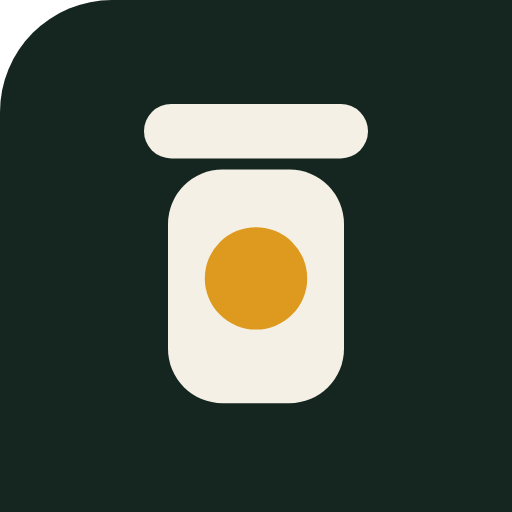
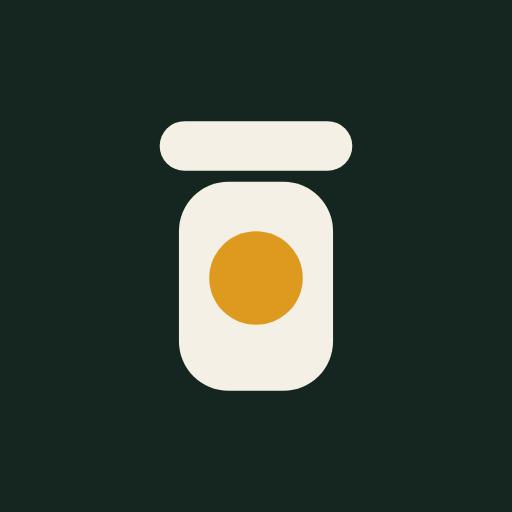
docs: trust-boundary diagram and a submission-ready README
- docs/architecture-trust.html/.png: where the money goes, drawn in the
  product's own tokens (money path outside the box, Kitty inside it)
- README: screenshot row, demo-video and submission pointers, the diagram
  as the head of the architecture section
- README: the mainnet chip-in is no longer 'pending' (5 NIM at block
  65,891,682, tag kitty:aakgnbsc); the trust line states the real 0-vs-5 NIM
  disagreement instead of an old test number
- submission/: full-bleed 512 icon, 240 thumbnail, five phone screenshots
  plus a contact sheet

Changed region(s): [[0.2812, 0.1875, 0.7188, 0.8125], [0.0, 0.0, 0.1875, 0.1875], [0.4375, 0.4375, 0.5625, 0.4688]]

diff --git a/docs/architecture-trust.html b/docs/architecture-trust.html
@@ -1,0 +1,133 @@
+<!doctype html>
+<html lang="en"><head><meta charset="utf-8">
+<title>Kitty · where the money goes</title>
+<style>
+  :root{
+    --paper:#f4eee3; --paper-2:#fbf8f1; --ink:#1b1a17; --muted:#5f594d;
+    --soft:#8b8477; --rule:rgba(27,26,23,.22); --accent:#c9761c; --accent-2:#dd9a1e;
+    --deep:#14261f; --link:#3f6b57;
+    --sans:-apple-system,BlinkMacSystemFont,"Segoe UI",system-ui,sans-serif;
+    --mono:ui-monospace,SFMono-Regular,Menlo,Consolas,monospace;
+  }
+  html,body{margin:0;background:var(--paper);color:var(--ink);font-family:var(--sans)}
+  .page{max-width:1200px;margin:0 auto;padding:44px 0 56px}
+  .eyebrow,h1,.lede,.note{padding-left:24px;padding-right:24px}
+  .eyebrow{font-family:var(--mono);font-size:11px;letter-spacing:.16em;text-transform:uppercase;color:var(--accent);margin:0 0 10px}
+  h1{font-size:30px;line-height:1.15;letter-spacing:-.02em;font-weight:600;margin:0 0 8px}
+  .lede{font-size:14px;line-height:1.55;color:var(--muted);margin:0 0 26px;max-width:760px}
+  .scroll{overflow-x:auto}
+  svg{display:block;min-width:1200px}
+  .note{font-family:var(--mono);font-size:11px;letter-spacing:.04em;color:var(--soft);margin-top:16px}
+</style></head><body>
+<div class="page">
+  <p class="eyebrow">Kitty · trust boundary</p>
+  <h1>The money never enters the box</h1>
+  <p class="lede">A contribution is a NIM payment from the giver's wallet to the owner's wallet, signed in
+    Nimiq Pay. Kitty only reads that payment back from the chain and prints what it finds, which is why a
+    receipt cannot be invented and Kitty cannot spend a coin.</p>
+
+  <div class="scroll">
+  <svg viewBox="0 0 1200 620" width="1200" height="620" role="img"
+       aria-labelledby="trust-title trust-desc" xmlns="http://www.w3.org/2000/svg">
+    <title id="trust-title">Kitty trust boundary: money moves between wallets, Kitty only reads the chain</title>
+    <desc id="trust-desc">A giver's wallet sends NIM with the jar tag to the owner's own wallet through the Nimiq
+      chain. Inside a separate box, the Kitty web app posts the transaction hash to Kitty's verifier, which reads
+      that transaction from the chain and prints the row on the public proof page.</desc>
+
+    <defs>
+      <marker id="trust-arrow" viewBox="0 0 10 10" refX="9" refY="5" markerWidth="7" markerHeight="7"
+              orient="auto-start-reverse"><path d="M0 0 L10 5 L0 10 z" fill="#5f594d"/></marker>
+      <marker id="trust-arrow-accent" viewBox="0 0 10 10" refX="9" refY="5" markerWidth="7" markerHeight="7"
+              orient="auto-start-reverse"><path d="M0 0 L10 5 L0 10 z" fill="#c9761c"/></marker>
+      <marker id="trust-arrow-link" viewBox="0 0 10 10" refX="9" refY="5" markerWidth="7" markerHeight="7"
+              orient="auto-start-reverse"><path d="M0 0 L10 5 L0 10 z" fill="#3f6b57"/></marker>
+    </defs>
+
+    <!-- trust boundary: Kitty's side of the line -->
+    <rect x="20" y="336" width="1160" height="196" rx="10" fill="#fbf8f1"
+          stroke="#8b8477" stroke-width="1.5" stroke-dasharray="7,5"/>
+    <text x="44" y="366" font-family="ui-monospace,Menlo,monospace" font-size="11" letter-spacing="1.7"
+          fill="#c9761c">KITTY · NO KEYS, NO CUSTODY</text>
+
+    <!-- arrows first, so strokes sit behind the boxes -->
+    <path d="M296 170 H466" stroke="#c9761c" stroke-width="2" fill="none" marker-end="url(#trust-arrow-accent)"/>
+    <path d="M732 170 H902" stroke="#c9761c" stroke-width="2" fill="none" marker-end="url(#trust-arrow-accent)"/>
+    <path d="M296 450 H466" stroke="#5f594d" stroke-width="1.5" fill="none" marker-end="url(#trust-arrow)"/>
+    <path d="M732 450 H902" stroke="#5f594d" stroke-width="1.5" fill="none" marker-end="url(#trust-arrow)"/>
+    <path d="M600 228 V396" stroke="#3f6b57" stroke-width="1.5" fill="none" stroke-dasharray="5,4"
+          marker-end="url(#trust-arrow-link)"/>
+
+    <!-- arrow labels, each on its own opaque mask -->
+    <rect x="330" y="140" width="104" height="20" rx="3" fill="#f4eee3"/>
+    <text x="382" y="154" text-anchor="middle" font-family="ui-monospace,Menlo,monospace" font-size="10.5"
+          letter-spacing="1.2" fill="#c9761c">SENDS 5 NIM</text>
+    <rect x="764" y="140" width="108" height="20" rx="3" fill="#f4eee3"/>
+    <text x="818" y="154" text-anchor="middle" font-family="ui-monospace,Menlo,monospace" font-size="10.5"
+          letter-spacing="1.2" fill="#c9761c">LANDS THERE</text>
+    <rect x="330" y="420" width="104" height="20" rx="3" fill="#fbf8f1"/>
+    <text x="382" y="434" text-anchor="middle" font-family="ui-monospace,Menlo,monospace" font-size="10.5"
+          letter-spacing="1.2" fill="#5f594d">POSTS HASH</text>
+    <rect x="762" y="420" width="112" height="20" rx="3" fill="#fbf8f1"/>
+    <text x="818" y="434" text-anchor="middle" font-family="ui-monospace,Menlo,monospace" font-size="10.5"
+          letter-spacing="1.2" fill="#5f594d">PRINTS ROW</text>
+    <rect x="612" y="296" width="92" height="20" rx="3" fill="#f4eee3"/>
+    <text x="658" y="310" text-anchor="middle" font-family="ui-monospace,Menlo,monospace" font-size="10.5"
+          letter-spacing="1.2" fill="#3f6b57">READS TX</text>
+
+    <!-- node: giver -->
+    <rect x="40" y="122" width="256" height="96" rx="6" fill="#fbf8f1" stroke="#1b1a17" stroke-width="1.5"/>
+    <text x="62" y="156" font-size="15" font-weight="600" fill="#1b1a17">Giver's phone</text>
+    <text x="62" y="178" font-family="ui-monospace,Menlo,monospace" font-size="10.5" letter-spacing="1.1"
+          fill="#5f594d">NIMIQ PAY · SIGNS</text>
+    <text x="62" y="198" font-family="ui-monospace,Menlo,monospace" font-size="10.5" fill="#8b8477">tag kitty:aakgnbsc</text>
+
+    <!-- node: chain -->
+    <rect x="476" y="122" width="256" height="96" rx="6" fill="#14261f" stroke="#14261f" stroke-width="1.5"/>
+    <text x="498" y="156" font-size="15" font-weight="600" fill="#f4f0e6">Nimiq mainnet</text>
+    <text x="498" y="178" font-family="ui-monospace,Menlo,monospace" font-size="10.5" letter-spacing="1.1"
+          fill="#c9c2b2">BLOCK 65,891,682</text>
+    <text x="498" y="198" font-family="ui-monospace,Menlo,monospace" font-size="10.5" fill="#8b8477">value read from the node</text>
+
+    <!-- node: owner wallet (focal) -->
+    <rect x="912" y="122" width="256" height="96" rx="6" fill="#fbf8f1" stroke="#c9761c" stroke-width="2"/>
+    <text x="934" y="156" font-size="15" font-weight="600" fill="#1b1a17">Owner's own wallet</text>
+    <text x="934" y="178" font-family="ui-monospace,Menlo,monospace" font-size="10.5" letter-spacing="1.1"
+          fill="#c9761c">THE MONEY IS HERE</text>
+    <text x="934" y="198" font-family="ui-monospace,Menlo,monospace" font-size="10.5" fill="#8b8477">not in Kitty</text>
+
+    <!-- node: web app -->
+    <rect x="40" y="402" width="256" height="96" rx="6" fill="#fbf8f1" stroke="#1b1a17" stroke-width="1.5"/>
+    <text x="62" y="436" font-size="15" font-weight="600" fill="#1b1a17">Kitty web app</text>
+    <text x="62" y="458" font-family="ui-monospace,Menlo,monospace" font-size="10.5" letter-spacing="1.1"
+          fill="#5f594d">THE JAR PAGE</text>
+    <text x="62" y="478" font-family="ui-monospace,Menlo,monospace" font-size="10.5" fill="#8b8477">no wallet, no key</text>
+
+    <!-- node: verifier -->
+    <rect x="476" y="402" width="256" height="96" rx="6" fill="#fbf8f1" stroke="#1b1a17" stroke-width="1.5"/>
+    <text x="498" y="436" font-size="15" font-weight="600" fill="#1b1a17">Kitty verifier</text>
+    <text x="498" y="458" font-family="ui-monospace,Menlo,monospace" font-size="10.5" letter-spacing="1.1"
+          fill="#5f594d">SIX CHECKS</text>
+    <text x="498" y="478" font-family="ui-monospace,Menlo,monospace" font-size="10.5" fill="#8b8477">refuses a wrong row</text>
+
+    <!-- node: proof page -->
+    <rect x="912" y="402" width="256" height="96" rx="6" fill="#fbf8f1" stroke="#1b1a17" stroke-width="1.5"/>
+    <text x="934" y="436" font-size="15" font-weight="600" fill="#1b1a17">Public proof page</text>
+    <text x="934" y="458" font-family="ui-monospace,Menlo,monospace" font-size="10.5" letter-spacing="1.1"
+          fill="#5f594d">EVERY RECEIPT</text>
+    <text x="934" y="478" font-family="ui-monospace,Menlo,monospace" font-size="10.5" fill="#8b8477">opens on Nimiq</text>
+
+    <!-- legend strip -->
+    <g font-family="ui-monospace,Menlo,monospace" font-size="10.5" letter-spacing="1.1" fill="#5f594d">
+      <line x1="40" y1="576" x2="76" y2="576" stroke="#c9761c" stroke-width="2" marker-end="url(#trust-arrow-accent)"/>
+      <text x="86" y="580">MONEY MOVES</text>
+      <line x1="222" y1="576" x2="258" y2="576" stroke="#5f594d" stroke-width="1.5" marker-end="url(#trust-arrow)"/>
+      <text x="268" y="580">KITTY WRITES</text>
+      <line x1="404" y1="576" x2="440" y2="576" stroke="#3f6b57" stroke-width="1.5" stroke-dasharray="5,4"
+            marker-end="url(#trust-arrow-link)"/>
+      <text x="450" y="580">READS THE CHAIN</text>
+    </g>
+  </svg>
+  </div>
+  <p class="note">5 NIM · tx 8afa45e0…901ab9 · block 65,891,682 · tag kitty:aakgnbsc</p>
+</div>
+</body></html>

diff --git a/submission/src/icon-512.html b/submission/src/icon-512.html
@@ -1,0 +1,15 @@
+<!doctype html><html><head><meta charset="utf-8"><style>
+  html,body{margin:0;padding:0;width:512px;height:512px;overflow:hidden;background:#14261f}
+  svg{display:block}
+</style></head><body>
+<!-- Kitty mark, drawn from web/app/icon.svg at 16x, full-bleed square:
+     platforms apply their own corner mask, so the file itself must not. -->
+<svg width="512" height="512" viewBox="0 0 32 32" xmlns="http://www.w3.org/2000/svg">
+  <rect width="32" height="32" fill="#14261f"/>
+  <g transform="translate(16 16) scale(0.86) translate(-16 -16)">
+    <rect x="9" y="6.2" width="14" height="3.6" rx="1.8" fill="#f4f0e6"/>
+    <rect x="10.4" y="10.6" width="11.2" height="15.2" rx="3.6" fill="#f4f0e6"/>
+    <circle cx="16" cy="17.6" r="3.4" fill="#dd9a1e"/>
+  </g>
+</svg>
+</body></html>

diff --git a/submission/src/thumbnail-240.html b/submission/src/thumbnail-240.html
@@ -1,0 +1,15 @@
+<!doctype html><html><head><meta charset="utf-8"><style>
+  html,body{margin:0;padding:0;width:240px;height:240px;overflow:hidden;background:#f4eee3}
+  svg{display:block}
+</style></head><body>
+<!-- Kitty mark, drawn from web/app/icon.svg at 16x, full-bleed square:
+     platforms apply their own corner mask, so the file itself must not. -->
+<svg width="240" height="240" viewBox="0 0 32 32" xmlns="http://www.w3.org/2000/svg">
+  <rect width="32" height="32" fill="#f4eee3"/>
+  <g transform="translate(16 16) scale(0.86) translate(-16 -16)">
+    <rect x="9" y="6.2" width="14" height="3.6" rx="1.8" fill="#14261f"/>
+    <rect x="10.4" y="10.6" width="11.2" height="15.2" rx="3.6" fill="#14261f"/>
+    <circle cx="16" cy="17.6" r="3.4" fill="#dd9a1e"/>
+  </g>
+</svg>
+</body></html>

diff --git a/README.md b/README.md
@@ -13,6 +13,18 @@ money, never holds a key, and never asks anyone for a deposit.
 - **Category:** Save, Nimiq Mini Apps Competition Cycle III (deadline 2026-11-11 23:59 UTC)
 - **Licence:** MIT
 
+<p>
+  <img src="submission/screen-goal.png" width="19%" alt="A goal jar with one verified receipt" />
+  <img src="submission/screen-chipin.png" width="19%" alt="Chipping in 5 NIM with a name and a note" />
+  <img src="submission/screen-receipt.png" width="19%" alt="A receipt page with its on-chain hash" />
+  <img src="submission/screen-proof.png" width="19%" alt="The public proof page" />
+  <img src="submission/screen-home.png" width="19%" alt="The jar list" />
+</p>
+
+**Demo video (2:07):** _the walkthrough — create a jar, chip in from a phone, watch the receipt land_
+· **Submission pack:** [`submission/`](submission) (icon, thumbnail, screenshots) and
+[`docs/submission.md`](docs/submission.md) (every form field, drafted).
+
 ---
 
 ## The problem
@@ -74,8 +86,15 @@ attribution, verified by re-reading the chain rather than by trusting the client
 
 ## Architecture
 
-Diagram: [`docs/architecture.html`](docs/architecture.html). Reasoning behind every decision:
-[`docs/ARCHITECTURE.md`](docs/ARCHITECTURE.md). API contract: [`docs/API.md`](docs/API.md).
+**The money never enters the box.** A contribution is a NIM payment from the giver's wallet to the
+owner's wallet, signed in Nimiq Pay. Kitty reads that payment back from the chain and prints what it
+finds, which is why a receipt cannot be invented and Kitty cannot spend a coin.
+
+![Kitty trust boundary: money moves between wallets, Kitty only reads the chain](docs/architecture-trust.png)
+
+Source: [`docs/architecture-trust.html`](docs/architecture-trust.html) (self-contained SVG).
+Full component diagram: [`docs/architecture.html`](docs/architecture.html). Reasoning behind every
+decision: [`docs/ARCHITECTURE.md`](docs/ARCHITECTURE.md). API contract: [`docs/API.md`](docs/API.md).
 
 ```
 Kitty web (Next.js, Vercel)
@@ -165,11 +184,11 @@ competition only accepts mainnet entries, and a savings jar with play money teac
 | Contributions are real NIM payments on Nimiq mainnet | **Real.** Verified by re-reading each transaction from the chain |
 | A payment's goal attribution survives on-chain | **Real.** Proven on a mainnet transaction before any code was written: [`facts/chain-proof.md`](facts/chain-proof.md) |
 | Kitty cannot move or hold funds | **Real by construction.** The platform exposes no signing capability to a Mini App, and the API stores no key material |
-| The receipts index agrees with the wallet | **Real.** The trust line compares a live chain balance with the indexed total: 80,086 NIM read from mainnet on the first test jar |
+| The receipts index agrees with the wallet | **Real, and it can disagree out loud.** The trust line prints the owner's live chain balance beside the indexed receipts total, and says which one is behind. On the demo jar the balance is now 0 NIM against 5 NIM of receipts: the owner spent it, and the page says so instead of hiding it |
 | Any receipt can be independently checked | **Real.** Every row re-derives from `getTransactionByHash`; `tools/audit_chain.py` does it in bulk |
 | The verifier rejects wrong recipients, wrong memos, failed executions and duplicates | **Real and tested.** 59 tests including live-mainnet rejections, and the deployed API rejects a real mainnet transaction with `wrong_memo` |
 | A payment whose client never reported back still becomes a receipt | **Real.** The jar page sweeps the owner's recent transactions for its memo and records anything missing through the same verifier; tested against a stub and bounded to one chain read per jar per 20s |
-| A full contribution through a real Nimiq Pay wallet | **Pending the first mainnet chip-in.** The success path is proven against a stubbed RPC in tests; the last mile needs a phone with NIM on it, and this README will carry the hash the moment it happens |
+| A full contribution through a real Nimiq Pay wallet | **Real.** 5 NIM from `NQ67V6P…YBRA` into "Mai's new school shoes", approved in Nimiq Pay, verified at block 65,891,682: [`8afa45e0…901ab9`](https://nimiq.watch/#8afa45e02b8f59604e498decc8415053da3d87f80373f710381e9b7bc1901ab9), `recipientData` decodes to `kitty:aakgnbsc`. The goal page shows it, and `/r/8afa45e0…901ab9` is its own forwardable receipt |
 | Usage numbers | **Published, not claimed.** `GET /v1/ledger` and the proof page print the distinct wallets behind every receipt. Zero until real people pay, and the page says zero rather than rounding it up to a story |
 
 Nothing in Kitty is mocked, simulated or pre-seeded. There is no demo data in the database.
